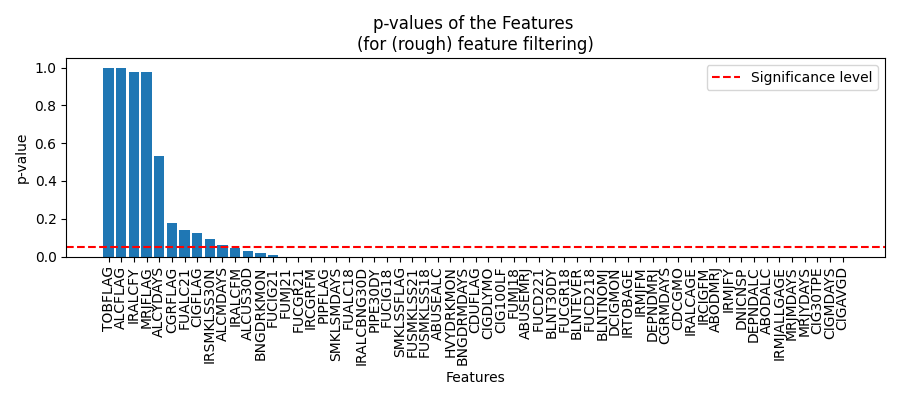
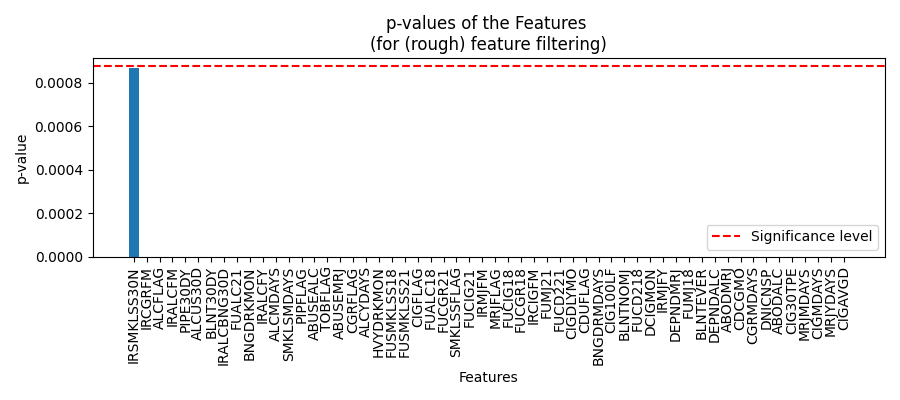
Data New isch die cleaned version (mit richtige datatypes)

Changed region(s): [[0.0311, 0.03, 0.9956, 0.96]]

diff --git a/Feature Selection 2.py b/Feature Selection 2.py
@@ -75,7 +75,7 @@ def decide(data):
     return data
 data = decide(data)
 print(data.isna().sum())
-"""
+
 data.dropna(inplace=True)
 #print(data.TOBFLAG.value_counts())
 #print(data_copy.TOBFLAG.value_counts())
@@ -94,7 +94,7 @@ X = data.drop('UDPYIEM',axis=1)
 y = data['UDPYIEM']
 statistic = pd.DataFrame(index = ['F-Statistic','p-value','Chi2 statistic','Ranksum'],columns = X.columns)
 normal = []
-alpha = 0.05
+alpha = 0.05 / data.shape[1]
 for col in num_cols:
     group1 = X.loc[y.values== 1, col]
     group2 = X.loc[y.values== 0, col]
@@ -145,7 +145,6 @@ def selection(data, model):
     cv = StratifiedKFold(n_splits=splits, shuffle=True, random_state=1)
     fold = 0
     data_mutual_info = pd.DataFrame(columns = X.columns, index = np.arange(splits))
- 
     for train_index, test_index in cv.split(X,y):
         X_train, X_test = X.iloc[train_index], X.iloc[test_index]
         y_train, y_test = y.iloc[train_index], y.iloc[test_index]
@@ -158,5 +157,3 @@ def selection(data, model):
         data_mutual_info.loc[fold,:] = mutual_info_classif(X_train,y_train)
 
         fold+=1
-
-"""
